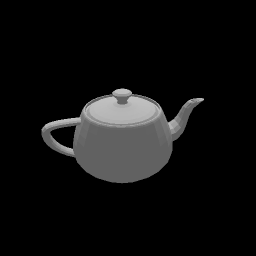
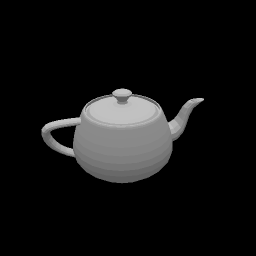
fix lighting

diff --git a/examples/example4.py b/examples/example4.py
@@ -16,7 +16,7 @@ import neural_renderer
 
 
 class Model(chainer.Link):
-    def __init__(self, filename_obj, filename_ref):
+    def __init__(self, filename_obj, filename_ref=None):
         super(Model, self).__init__()
 
         with self.init_scope():
@@ -31,7 +31,10 @@ class Model(chainer.Link):
             self.textures = textures
 
             # load reference image
-            self.image_ref = (scipy.misc.imread(filename_ref).max(-1) != 0).astype('float32')
+            if filename_ref is not None:
+                self.image_ref = (scipy.misc.imread(filename_ref).max(-1) != 0).astype('float32')
+            else:
+                self.image_ref = None
 
             # camera parameters
             self.camera_position = chainer.Parameter(np.array([6, 10, -14], 'float32'))
@@ -46,7 +49,8 @@ class Model(chainer.Link):
         self.faces = chainer.cuda.to_gpu(self.faces)
         self.vertices = chainer.cuda.to_gpu(self.vertices)
         self.textures = chainer.cuda.to_gpu(self.textures)
-        self.image_ref = chainer.cuda.to_gpu(self.image_ref)
+        if self.image_ref is not None:
+            self.image_ref = chainer.cuda.to_gpu(self.image_ref)
 
     def __call__(self):
         image = self.renderer.render_silhouettes(self.vertices, self.faces)
@@ -62,14 +66,28 @@ def make_gif(working_directory, filename):
         os.remove(filename)
 
 
+def make_reference_image(filename_ref, filename_obj):
+    model = Model(filename_obj)
+    model.to_gpu()
+
+    model.renderer.eye = neural_renderer.get_points_from_angles(2.732, 30, -15)
+    images = model.renderer.render(model.vertices, model.faces, cf.tanh(model.textures))
+    image = images.data.get()[0]
+    scipy.misc.toimage(image, cmin=0, cmax=1).save(filename_ref)
+
+
 def run():
     parser = argparse.ArgumentParser()
     parser.add_argument('-io', '--filename_obj', type=str, default='./examples/data/teapot.obj')
     parser.add_argument('-ir', '--filename_ref', type=str, default='./examples/data/example4_ref.png')
     parser.add_argument('-or', '--filename_output', type=str, default='./examples/data/example4_result.gif')
+    parser.add_argument('-mr', '--make_reference_image', type=int, default=0)
     parser.add_argument('-g', '--gpu', type=int, default=0)
     args = parser.parse_args()
     working_directory = os.path.dirname(args.filename_output)
+
+    if args.make_reference_image:
+        make_reference_image(args.filename_ref, args.filename_obj)
 
     model = Model(args.filename_obj, args.filename_ref)
     model.to_gpu()

diff --git a/neural_renderer/renderer.py b/neural_renderer/renderer.py
@@ -38,19 +38,26 @@ class Renderer(object):
         return images
 
     def render(self, vertices, faces, textures):
+        # fill back
+        if self.fill_back:
+            faces =  cf.concat((faces, faces[:, :, ::-1]), axis=1).data
+            textures = cf.concat((textures, textures.transpose((0, 1, 4, 3, 2, 5))), axis=1)
+
+        # lighting
+        faces_l = neural_renderer.vertices_to_faces(vertices, faces)
+        textures = neural_renderer.lighting(
+            faces_l, textures, self.light_intensity_ambient, self.light_intensity_directional)
+
+        # transform vertices
         if self.camera_mode == 'look_at':
             vertices = neural_renderer.look_at(vertices, self.eye)
         elif self.camera_mode == 'look':
             vertices = neural_renderer.look(vertices, self.eye, self.camera_direction)
-
         if self.perspective:
             vertices = neural_renderer.perspective(vertices)
+
         faces = neural_renderer.vertices_to_faces(vertices, faces)
-        if self.fill_back:
-            faces = cf.concat((faces, faces[:, :, ::-1]), axis=1)
-            textures = cf.concat((textures, textures.transpose((0, 1, 4, 3, 2, 5))), axis=1)
-        textures = neural_renderer.lighting(
-            faces, textures, self.light_intensity_ambient, self.light_intensity_directional)
+
         images = neural_renderer.rasterize(
             faces, textures, self.image_size, self.anti_aliasing, self.near, self.far, self.rasterizer_eps,
             self.background_color)

diff --git a/examples/example1.py b/examples/example1.py
@@ -51,7 +51,7 @@ def run():
         renderer.eye = neural_renderer.get_points_from_angles(camera_distance, elevation, azimuth)
         images = renderer.render(vertices, faces, textures)  # [batch_size, RGB, image_size, image_size]
         image = images.data.get()[0].transpose((1, 2, 0))  # [image_size, image_size, RGB]
-        scipy.misc.imsave('%s/_tmp_%04d.png' % (working_directory, num), image)
+        scipy.misc.toimage(image, cmin=0, cmax=1).save('%s/_tmp_%04d.png' % (working_directory, num))
 
     # generate gif (need ImageMagick)
     options = '-delay 8 -loop 0 -layers optimize'
